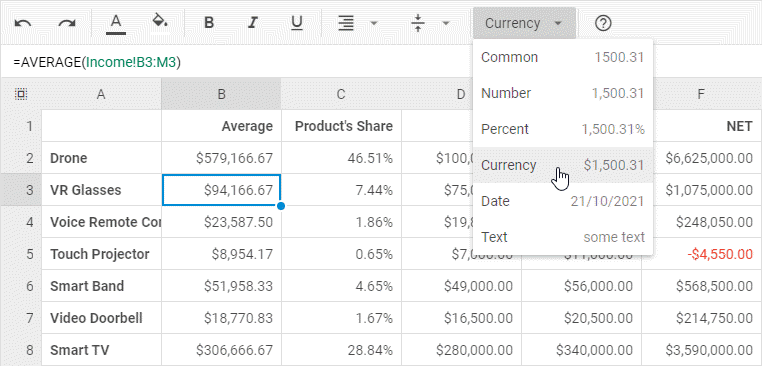
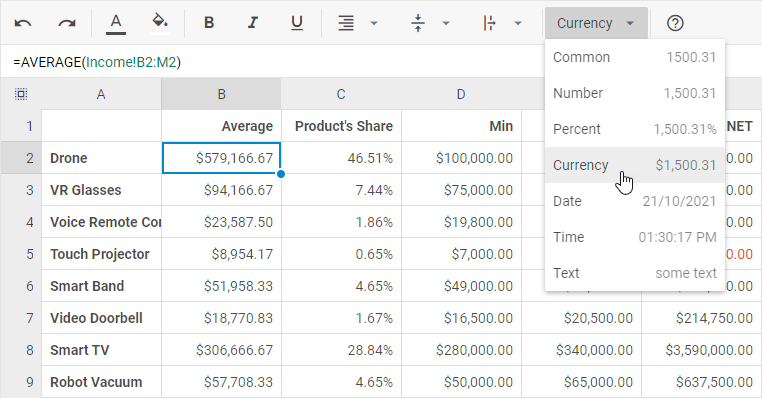
[add] docs for time format, update images

diff --git a/sidebars.js b/sidebars.js
@@ -147,6 +147,7 @@ module.exports = {
             "api/spreadsheet_multisheets_config",
             "api/spreadsheet_readonly_config",
             "api/spreadsheet_rowscount_config",
+            "api/spreadsheet_timeformat_config",
             "api/spreadsheet_toolbarblocks_config",
           ],
         },

diff --git a/docs/number_formatting.md b/docs/number_formatting.md
@@ -30,6 +30,12 @@ defaultFormats = [
 	{ name: "Percent", id: "percent", mask: "#,##0.00%", example: "1,500.31%" },
 	{ name: "Currency", id: "currency", mask: "$#,##0.00", example: "$1,500.31" },
 	{ name: "Date", id: "date", mask: "mm-dd-yy", example: "28/12/2021" },
+	{ 
+		name: "Time",
+   		id: "time",
+   		mask: hh:mm:ss am/pm || hh:mm:ss, // depending on the timeFormat config
+   		example: "13:30:00"
+	},
     { name: "Text", id: "text", mask: "@", example: "'1500.31'" }
 ];
 ~~~
@@ -44,11 +50,42 @@ You can define the format the dates to be displayed in the spreadsheet via the [
 
 ~~~js
 const spreadsheet = new dhx.Spreadsheet("spreadsheet", {
-	dateFormat: "%D/%M/%Y"
+	dateFormat: "%D/%M/%Y",
+});
+
+spreadsheet.parse({
+	styles: {
+        // a set of styles
+	},
+    data: [
+		{cell: "B1", value: "03/10/2022", format: "date"},
+    	{cell: "B2", value: new Date(), format: "date"},
+   	]
 });
 ~~~
 
 Check [the full list of available characters used to make formats](api/spreadsheet_dateformat_config.md).
+
+## Time format
+
+To define the format in which the time should be shown in the spreadsheet cells, use the [timeFormat](api/spreadsheet_timeformat_config.md) property:
+
+~~~js
+const spreadsheet = new dhx.Spreadsheet("spreadsheet", {
+	timeFormat: 24,
+});
+
+spreadsheet.parse({
+	styles: {
+        // a set of styles
+	},
+    data: [
+    	{ cell: "A1", value: "18:30", format: "time" },
+    	{ cell: "A2", value: 44550.5625, format: "time" },
+    	{ cell: "A3", value: new Date(), format: "time" },
+   	]
+});
+~~~
 
 ## Formats customization
 

diff --git a/docs/api/spreadsheet_timeformat_config.md b/docs/api/spreadsheet_timeformat_config.md
@@ -1,0 +1,47 @@
+---
+sidebar_label: timeFormat
+title: timeFormat config
+description: You can learn about the dateFormat config in the documentation of the DHTMLX JavaScript Spreadsheet library. Browse developer guides and API reference, try out code examples and live demos, and download a free 30-day evaluation version of DHTMLX Spreadsheet.
+---
+
+# timeFormat
+
+### Description
+
+@short: Optional. Defines the format of time in the spreadsheet
+
+### Usage
+
+~~~jsx
+timeFormat?: number;  // 12 | 24
+~~~
+
+### Default config
+
+~~~jsx
+timeFormat: 12
+~~~
+
+### Example
+
+~~~jsx {2}
+const spreadsheet = new dhx.Spreadsheet("spreadsheet", {
+	timeFormat: 24,
+    // other config parameters
+});
+
+spreadsheet.parse({
+	styles: {
+        // a set of styles
+	},
+    data: [
+    	{ cell: "A1", value: "18:30", format: "time" },
+    	{ cell: "A2", value: 44550.5625, format: "time" },
+    	{ cell: "A3", value: new Date(), format: "time" },
+   	]
+});
+~~~
+
+**Change log:** Added in v4.3
+
+**Related articles:** [Time format](number_formatting.md/#time-format)

diff --git a/docs/api/spreadsheet_formats_config.md b/docs/api/spreadsheet_formats_config.md
@@ -36,6 +36,12 @@ defaultFormats = [
 	{ name: "Percent", id: "percent", mask: "#,##0.00%", example: "1,500.31%" },
 	{ name: "Currency", id: "currency", mask: "$#,##0.00", example: "$1,500.31" },
 	{ name: "Date", id: "date", mask: "mm-dd-yy", example: "28/12/2021" },
+	{ 
+		name: "Time",
+   		id: "time",
+   		mask: hh:mm:ss am/pm || hh:mm:ss, // depending on the timeFormat config
+   		example: "13:30:00"
+	},
     { name: "Text", id: "text", mask: "@", example: "'1500.31'" }
 ];
 ~~~
@@ -68,8 +74,9 @@ const spreadsheet = new dhx.Spreadsheet("spreadsheet", {
 ~~~
 
 **Change log:**
-- The "Date" format has been added in v4.2
-- The "Text" format has been added in v4.0
+- The "Time" format was added in v4.3
+- The "Date" format was added in v4.2
+- The "Text" format was added in v4.0
 
 **Related articles:** 
 - [Number formatting](number_formatting.md)

diff --git a/docs/api/spreadsheet_dateformat_config.md b/docs/api/spreadsheet_dateformat_config.md
@@ -29,6 +29,16 @@ const spreadsheet = new dhx.Spreadsheet("spreadsheet", {
 	dateFormat: "%D/%M/%Y",
     // other config parameters
 });
+
+spreadsheet.parse({
+	styles: {
+        // a set of styles
+	},
+    data: [
+		{cell: "B1", value: "03/10/2022", format: "date"},
+    	{cell: "B2", value: new Date(), format: "date"},
+   	]
+});
 ~~~
 
 ### List of characters
@@ -57,6 +67,8 @@ DHTMLX Spreadsheet uses the following characters for setting a date format:
 | **%A**    | AM or PM                                          |
 | **%u**    | milliseconds                                      |
 
-**Change log:** Added in v4.2
+**Change log:** 
+- From v4.3, it is possible to set the date as a *new Date()* object in the data set
+- Added in v4.2
 
 **Related articles:** [Date format](number_formatting.md/#date-format)

diff --git a/docs/api/overview/properties_overview.md b/docs/api/overview/properties_overview.md
@@ -19,4 +19,5 @@ description: You can have a Properties overview of the DHTMLX JavaScript Spreads
 | [](../spreadsheet_multisheets_config.md)      | @getshort(../spreadsheet_multisheets_config.md)      |
 | [](../spreadsheet_readonly_config.md)         | @getshort(../spreadsheet_readonly_config.md)         |
 | [](../spreadsheet_rowscount_config.md)        | @getshort(../spreadsheet_rowscount_config.md)        |
+| [](../spreadsheet_timeformat_config.md)       | @getshort(../spreadsheet_timeformat_config.md)       |
 | [](../spreadsheet_toolbarblocks_config.md)    | @getshort(../spreadsheet_toolbarblocks_config.md)    |

diff --git a/docs/api/api_overview.md b/docs/api/api_overview.md
@@ -109,6 +109,7 @@ Parameters:
 | [](api/spreadsheet_multisheets_config.md)      | @getshort(api/spreadsheet_multisheets_config.md)      |
 | [](api/spreadsheet_readonly_config.md)         | @getshort(api/spreadsheet_readonly_config.md)         |
 | [](api/spreadsheet_rowscount_config.md)        | @getshort(api/spreadsheet_rowscount_config.md)        |
+| [](api/spreadsheet_timeformat_config.md)       | @getshort(api/spreadsheet_timeformat_config.md)       |
 | [](api/spreadsheet_toolbarblocks_config.md)    | @getshort(api/spreadsheet_toolbarblocks_config.md)    |
 
 ## Selection methods

diff --git a/docs/number_formatting_guide.md b/docs/number_formatting_guide.md
@@ -30,7 +30,11 @@ There are several number formats you can apply to format numeric values of cells
 		</tr>
 		<tr>
 			<td><b>Date</b></td>
-			<td>numbers are displayed as dates</td>
+			<td>numbers are displayed as dates in the specified format</td>
+		</tr>
+		<tr>
+			<td><b>Time</b></td>
+			<td>numbers are displayed as times in either 12 or 24-hour format</td>
 		</tr>
         <tr>
 			<td><b>Text</b></td>

diff --git a/docs/localization.md b/docs/localization.md
@@ -59,6 +59,7 @@ var en = {
 	percent: "percent",
 	text: "text",
 	date: "date",
+	time: "time",
 
 	downloadAs: "Download as...",
 	importAs: "Import as...",
